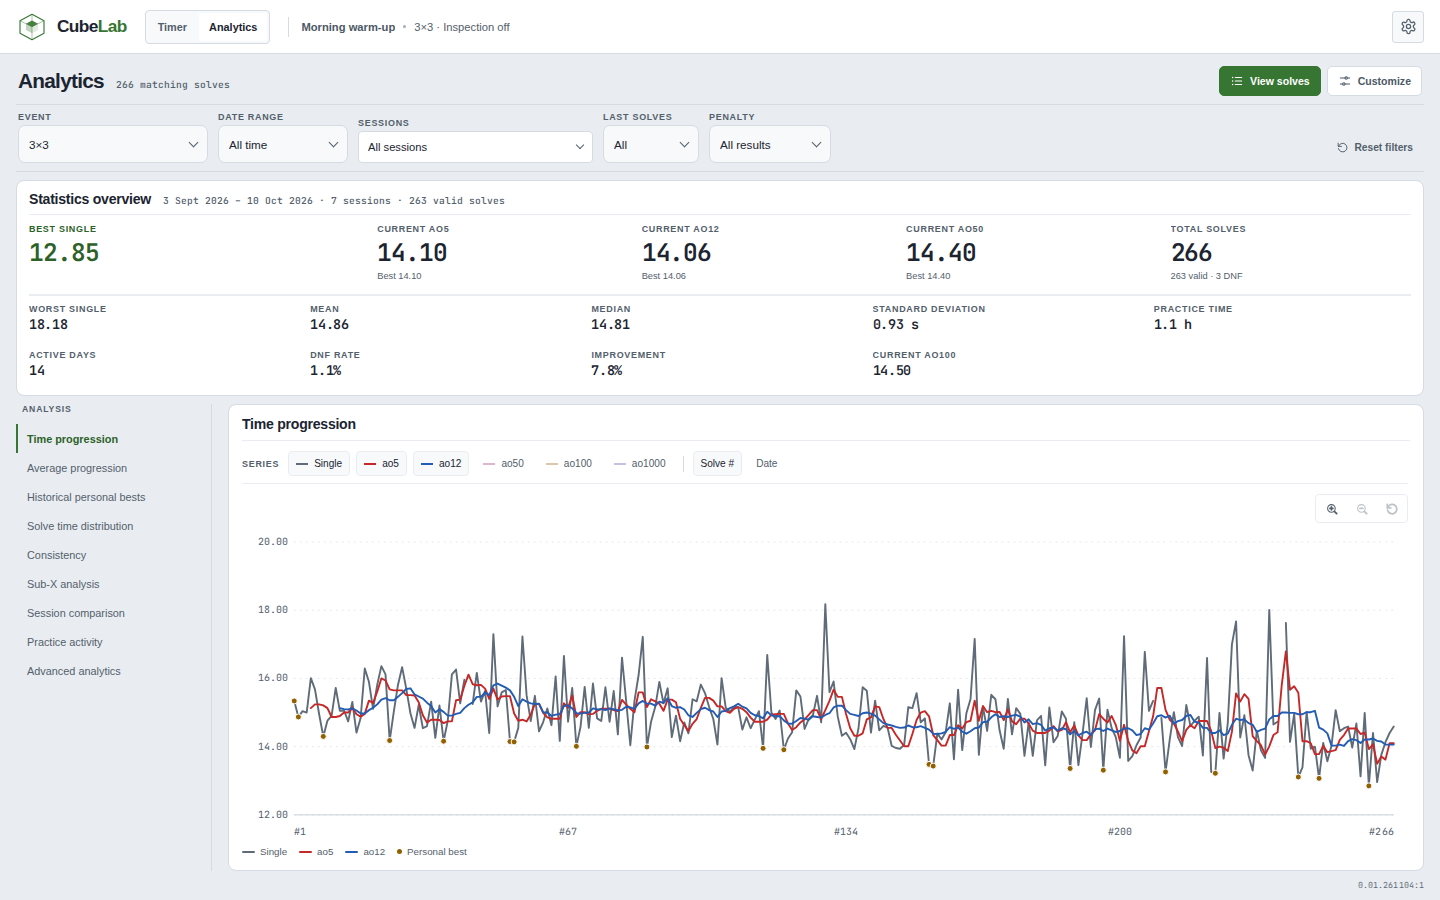
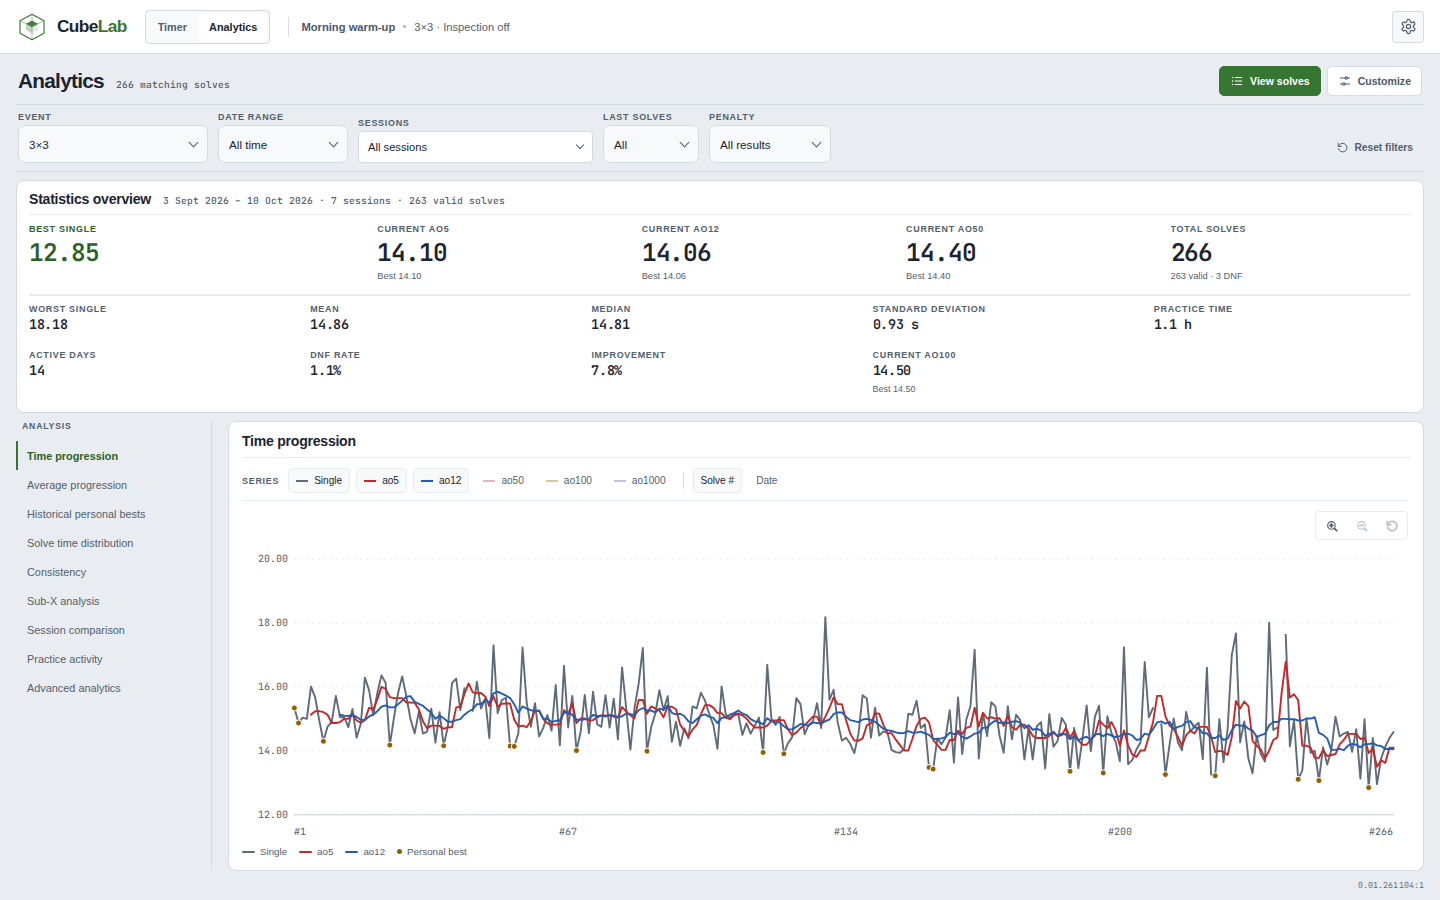
fix: address analytics review follow-ups

diff --git a/src/components/AnalyticsCharts.tsx b/src/components/AnalyticsCharts.tsx
@@ -47,11 +47,14 @@ interface LineChartProps {
   showControls?: boolean
 }
 
-function useElementWidth(ref: React.RefObject<HTMLDivElement | null>) {
+function useElementWidth(
+  ref: React.RefObject<HTMLDivElement | null>,
+  active: boolean,
+) {
   const [size, setSize] = useState({ width: 640, height: 220 })
   useEffect(() => {
     const host = ref.current
-    if (!host || typeof ResizeObserver === 'undefined') return
+    if (!active || !host || typeof ResizeObserver === 'undefined') return
     const observer = new ResizeObserver(([entry]) => {
       if (entry && entry.contentRect.width > 0 && entry.contentRect.height > 0) {
         setSize({
@@ -62,7 +65,7 @@ function useElementWidth(ref: React.RefObject<HTMLDivElement | null>) {
     })
     observer.observe(host)
     return () => observer.disconnect()
-  }, [ref])
+  }, [active, ref])
   return size
 }
 
@@ -84,7 +87,6 @@ export const AnalyticsLineChart = memo(function AnalyticsLineChart({
   showControls = true,
 }: LineChartProps) {
   const hostRef = useRef<HTMLDivElement>(null)
-  const measured = useElementWidth(hostRef)
   const [view, setView] = useState<TrendAxisView>({ zoom: 1, position: 1 })
   const [hover, setHover] = useState<number | null>(null)
   const dragRef = useRef<{
@@ -93,19 +95,20 @@ export const AnalyticsLineChart = memo(function AnalyticsLineChart({
     startX: number
     moved: boolean
   } | null>(null)
-  const width = Math.max(260, measured.width)
-  // Analytics charts fill their flex row on desktop; other uses fall back to the
-  // explicit/default height until the plot has been measured.
-  const chartHeight = Math.max(
-    150,
-    Math.round(measured.height > 0 ? measured.height : height),
-  )
   const count = Math.max(
     ...series.map((entry) => entry.values.length),
     0,
   )
   const hasValues = series.some((entry) =>
     entry.values.some((value) => value !== null),
+  )
+  const measured = useElementWidth(hostRef, hasValues)
+  const width = Math.max(260, measured.width)
+  // Analytics charts fill their flex row on desktop; other uses fall back to the
+  // explicit/default height until the plot has been measured.
+  const chartHeight = Math.max(
+    150,
+    Math.round(measured.height > 0 ? measured.height : height),
   )
   const allValues = useMemo(
     () => series.flatMap((entry) => entry.values.flatMap((value) => (value === null ? [] : [value]))),
@@ -522,7 +525,7 @@ export const AnalyticsHistogram = memo(function AnalyticsHistogram({
   testId = 'analytics-histogram',
 }: HistogramChartProps) {
   const hostRef = useRef<HTMLDivElement>(null)
-  const measured = useElementWidth(hostRef)
+  const measured = useElementWidth(hostRef, bins.length > 0)
   const [hoveredBin, setHoveredBin] = useState<number | null>(null)
   const width = Math.max(280, measured.width)
   const height = Math.max(

diff --git a/src/components/AnalyticsPage.test.tsx b/src/components/AnalyticsPage.test.tsx
@@ -1,5 +1,12 @@
 import { useState } from 'react'
-import { cleanup, fireEvent, render, screen, within } from '@testing-library/react'
+import {
+  cleanup,
+  fireEvent,
+  render,
+  screen,
+  waitFor,
+  within,
+} from '@testing-library/react'
 import { afterEach, beforeEach, describe, expect, it, vi } from 'vitest'
 import AnalyticsPage from './AnalyticsPage'
 import { DEFAULT_SETTINGS } from '../lib/storage'
@@ -109,6 +116,7 @@ beforeEach(() => {
 afterEach(() => {
   cleanup()
   vi.restoreAllMocks()
+  vi.unstubAllGlobals()
 })
 
 describe('AnalyticsPage', () => {
@@ -333,6 +341,26 @@ describe('AnalyticsPage', () => {
     expect(screen.getByTestId('analytics-activity-chart')).toHaveTextContent(
       'No practice activity yet.',
     )
+  })
+
+  it('attaches chart measurement when an empty scope becomes populated', async () => {
+    const observed: Element[] = []
+    class MockResizeObserver {
+      constructor(_callback: ResizeObserverCallback) {}
+      observe(target: Element) {
+        observed.push(target)
+      }
+      unobserve() {}
+      disconnect() {}
+    }
+    vi.stubGlobal('ResizeObserver', MockResizeObserver)
+
+    const { rerender } = render(<Harness data={[]} />)
+    expect(observed).toHaveLength(0)
+
+    rerender(<Harness data={sessions} />)
+    await waitFor(() => expect(observed.length).toBeGreaterThan(0))
+    expect(observed[0]).toHaveClass('analytics-chart-plot')
   })
 
   it('recomputes the overview when solve data changes', () => {

diff --git a/src/components/AnalyticsPage.tsx b/src/components/AnalyticsPage.tsx
@@ -963,6 +963,7 @@ export default function AnalyticsPage({
                   average.current,
                   settings.statPrecision,
                 )}
+                detail={`Best ${formatOptionalMs(average.best)}`}
                 title={`Current and best trimmed ao${average.size}. DNFs follow the configured WCA-style trimming rules.`}
                 variant="detail"
               />

diff --git a/STATUS.md b/STATUS.md
@@ -83,7 +83,7 @@ Node v22.23.2. Current checks on the working tree:
 | Check | Result |
 | --- | --- |
 | TypeScript, Oxlint | Passed |
-| Full Vitest run | 707 passed in 51 files |
+| Full Vitest run | 708 passed in 51 files |
 | Production build + PWA | Passed |
 | Focused csTimer Chromium flows | 3/3 passed (unknown custom types; invalid/valid additive import; ranked names, empty sessions and omitted defaults) |
 | Example fixture visual/axe check | Passed; 49 sessions, 8,591 solves and nine empty sessions represented |
@@ -100,8 +100,10 @@ accent remains reserved for the fastest single, selection, links and primary
 actions. Calculations, filters, persistence, chart interactions and the nine
 sections are unchanged.
 
+Chart measurement now reattaches its `ResizeObserver` when an empty analysis
+becomes populated, covered by a focused AnalyticsPage regression test.
 TypeScript and Oxlint passed (one unrelated pre-existing `SessionPanel` purity
-warning remains). Full Vitest: **707 passed in 51 files**. Focused Chromium
+warning remains). Full Vitest: **708 passed in 51 files**. Focused Chromium
 coverage passed `e2e/analytics.spec.ts` **12/12**. The production build and PWA
 generation passed without mock Drive. A one-off axe scan of the Analytics page
 reported no violations in desktop light, desktop dark, or 390 px layouts.
